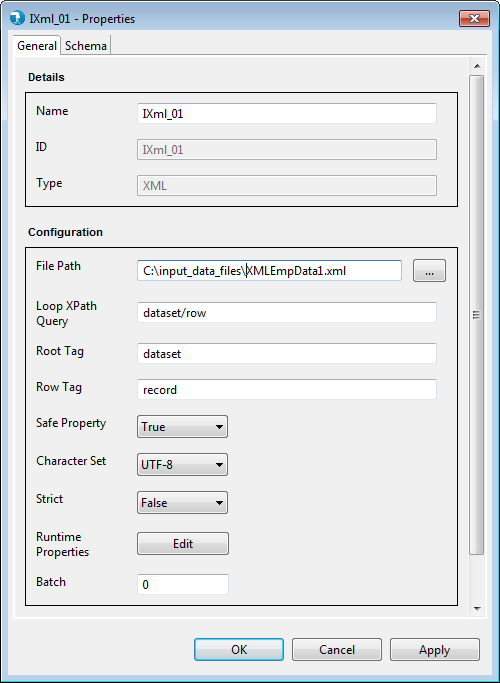
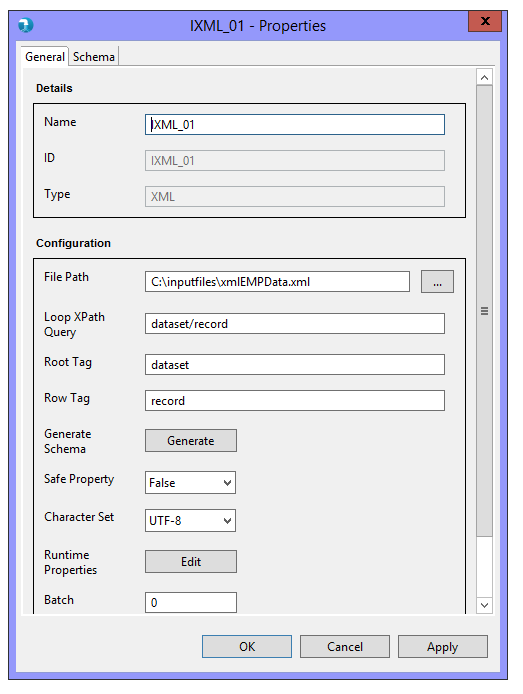
Added overwrite property to output xml and removed strict property from input xml component.

Changed region(s): [[0.0, 0.0, 1.0, 1.0]]

diff --git a/hydrograph.ui/hydrograph.ui.help/html/Components/input/Input_Xml_Properties.html b/hydrograph.ui/hydrograph.ui.help/html/Components/input/Input_Xml_Properties.html
@@ -44,7 +44,6 @@
 		<li><span><b>Loop XPath Query</b> - This property accepts the xpath of the Row Tag from RootTag</span></li>
 		<li><span><b>Safe Property</b> - This property accepts Boolean values True and False. It can also be parameterized and later on resolved during run-time. The Safe property when True, allows the input fields to pass evaluation despite of Data type mismatch. When False, fields with Data type mismatch will be rejected and the component will abort processing returning an error.</span></li>
 		<li><span><b>Character Set</b> - Contains a drop-down of character encoding values. Used simply to denote the encoding system followed by the input file to denote characters of data. Drop down lists contains values like : UTF8, US-ASCII, ISO-8859-1 etc.</span></li>
-		<li><span><b>Strict</b> - Strict accepts&nbsp;Boolean values True and False. It can also be parameterized and later on resolved during run-time. Strict property is used to check if the record structure i.e. number of fields, length of records, scale etc are exactly listed by the user as in the input file. When set to True, the component fails if the record structure doesn&#39;t match with the one specified by the user. Reverse in case of False.</span></li>
 		<li><span><b>Runtime Properties</b> -&nbsp;Runtime properties are used to override the Hadoop configurations specific to Input File Delimited component at run time. User is required to enter the Property Name and Value in the runtime properties grid.</span></li>
 	</ul>	
 		<p><span>Check <a href="../../How To Steps/How_To_Pass_Hadoop_Properties_To_Component.html"> How to pass Hadoop properties to component</a></span></p></li>

diff --git a/hydrograph.ui/hydrograph.ui.help/html/Components/output/Output_Xml_Properties.html b/hydrograph.ui/hydrograph.ui.help/html/Components/output/Output_Xml_Properties.html
@@ -39,6 +39,8 @@
 	
 	<ul>
 		<li><span><b>File Path</b> - File path is used to specify the path of the output XML file present either in the File system or on the cluster. User can either manually type the path in the text box provided or use the Browse button to search for the file and select it. Alternatively, the user can parameterize the File path where the parameter value will be resolved at run-time.</span></li>
+		<li><span><b>Overwrite - </b>This property accepts Boolean values True and False. It can also be parameterized and later on resolved
+				during run-time. The Overwrite property when True, overwrites the output file.</li>
 		<li><span><b>Loop XPath Query</b> - This property accepts the xpath of the Row Tag from RootTag</span></li>
 		<li><span><b>Root Tag</b> - This property accepts the name of the Root tag of the xml</span></li>
 		<li><span><b>Row Tag</b> - Row tag represents from where the data fields must be parsed to form a record</span></li>

diff --git a/hydrograph.ui/hydrograph.ui.engine/src/main/java/hydrograph/ui/engine/ui/converter/impl/InputXmlUiConverter.java b/hydrograph.ui/hydrograph.ui.engine/src/main/java/hydrograph/ui/engine/ui/converter/impl/InputXmlUiConverter.java
@@ -108,8 +108,12 @@ public class InputXmlUiConverter extends InputUiConverter{
 	
 		propertyMap.put(PropertyNameConstants.CHAR_SET.value(), getCharSet());
 		
+		propertyMap.put(PropertyNameConstants.IS_SAFE.value(),
+				convertBooleanValue(xmlFile.getSafe(), PropertyNameConstants.IS_SAFE.value()));
+		
 		uiComponent.setType(UIComponentsConstants.XML.value());
 		uiComponent.setCategory(UIComponentsConstants.INPUT_CATEGORY.value());
+		
 		
 		container.getComponentNextNameSuffixes().put(name_suffix, 0);
 		container.getComponentNames().add(xmlFile.getId());

diff --git a/hydrograph.ui/hydrograph.ui.engine/src/main/java/hydrograph/ui/engine/ui/converter/impl/OutputXMLUiConverter.java b/hydrograph.ui/hydrograph.ui.engine/src/main/java/hydrograph/ui/engine/ui/converter/impl/OutputXMLUiConverter.java
@@ -105,7 +105,8 @@ public class OutputXMLUiConverter extends OutputUiConverter{
 		propertyMap.put(PropertyNameConstants.ROOT_TAG.value(), StringUtils.isNotBlank(rootTag)? rootTag : "");
 		
 		propertyMap.put(PropertyNameConstants.CHAR_SET.value(), getCharSet());
-		
+		propertyMap.put(PropertyNameConstants.OVER_WRITE.value(),
+				convertToTrueFalseValue(outputXML.getOverWrite(), PropertyNameConstants.OVER_WRITE.value()));
 		uiComponent.setType(UIComponentsConstants.XML.value());
 		uiComponent.setCategory(UIComponentsConstants.OUTPUT_CATEGORY.value());
 		

diff --git a/hydrograph.ui/hydrograph.ui.engine/src/main/java/hydrograph/ui/engine/converter/impl/InputXmlConverter.java b/hydrograph.ui/hydrograph.ui.engine/src/main/java/hydrograph/ui/engine/converter/impl/InputXmlConverter.java
@@ -68,8 +68,6 @@ public class InputXmlConverter extends InputConverter {
 		xmlFile.setCharset(charset);
 		
 		xmlFile.setRuntimeProperties(getRuntimeProperties());
-		xmlFile.setStrict(getBoolean(PropertyNameConstants.STRICT.value()));
-		xmlFile.setSafe(getBoolean(PropertyNameConstants.IS_SAFE.value()));
 	
 		XmlFile.RootTag rootTag = new RootTag();
 		rootTag.setValue((String) properties.get(PropertyNameConstants.ROOT_TAG.value()));

diff --git a/hydrograph.ui/hydrograph.ui.engine/src/main/java/hydrograph/ui/engine/converter/impl/OutputXmlConverter.java b/hydrograph.ui/hydrograph.ui.engine/src/main/java/hydrograph/ui/engine/converter/impl/OutputXmlConverter.java
@@ -66,6 +66,7 @@ public class OutputXmlConverter extends OutputConverter {
 		XmlFile.RowTag rowTag = new RowTag();
 		rowTag.setValue((String) properties.get(PropertyNameConstants.ROW_TAG.value()));
 		xmlFile.setRowTag(rowTag);
+		xmlFile.setOverWrite(getTrueFalse(PropertyNameConstants.OVER_WRITE.value()));
 
 	}
 
